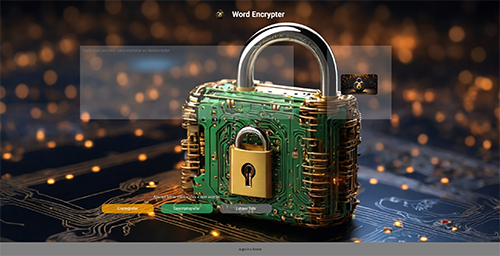
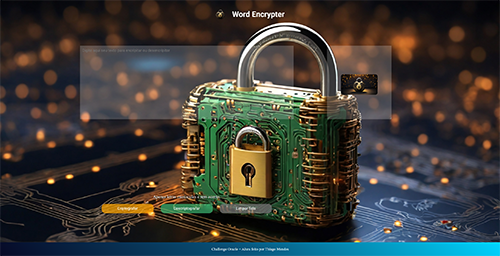
Update footer e screenshoot

Changed region(s): [[0.0, 0.9375, 1.0, 1.0]]

diff --git a/assets/css/style.css b/assets/css/style.css
@@ -108,7 +108,7 @@ main {
     background-color: rgba(60, 179, 113, 0.9);
 }
 
-.btn_clear{
+.btn_clear {
     display: flex;
     justify-content: center;
     padding: 10px;
@@ -122,7 +122,7 @@ main {
     font-family: 'Roboto', sans-serif;
 }
 
-.btn_clear:hover{
+.btn_clear:hover {
     background-color: rgba(120, 120, 120, 0.9);
 }
 
@@ -203,7 +203,9 @@ footer {
     width: 100vw;
     align-items: center;
     padding: 20px;
-    background-color: gray;
+    color: var(--cor-primaria);
+    background: rgb(7, 9, 38);
+    background: linear-gradient(45deg, rgba(7, 9, 38, 1) 0%, rgba(9, 83, 121, 1) 48%, rgba(0, 212, 255, 1) 100%);
 }
 
 @media (max-width: 1600px) {
@@ -212,12 +214,13 @@ footer {
         height: 70vh;
         margin-top: auto;
     }
+
     .btn_cop {
         width: 120px;
         margin-top: 30px;
     }
 
-    footer{
+    footer {
         width: 100vw;
     }
 }

diff --git a/index.html b/index.html
@@ -35,7 +35,7 @@
             </div>
         </section>
     </main>
-    <footer>Aqui é o footer</footer>
+    <footer>Challenge Oracle + Alura feito por Thiago Mendes</footer>
 </body>
 
 <script src="./assets/js/script.js"></script>
